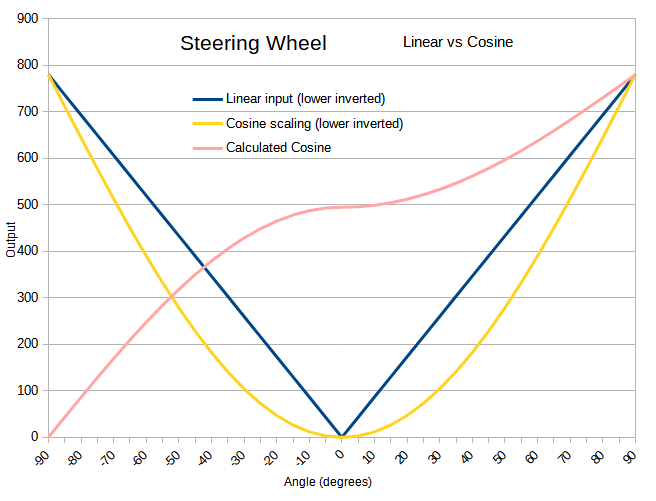
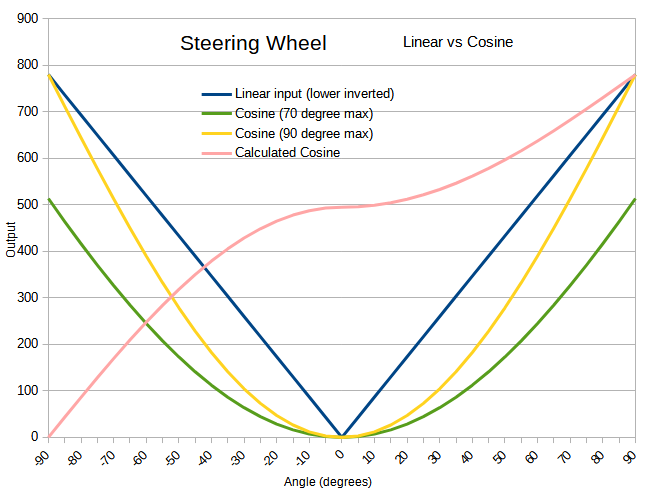
Added adjustable maximum angle for cosine scaling calculations. Range is 45 - 90 degrees.  90 degrees will allow full scale output. Lower angles will provide a wider center section, but the maximum output will be lower.

diff --git a/src/main.cpp b/src/main.cpp
@@ -9,9 +9,9 @@
 #define DEBUG 0
 #define TIMEOUT_HALF_SECONDS 20
 #define ENABLESERIAL 1
-#define ACCELAVG 0
+#define ACCELAVG 1
 #define ACCELSCALING 1
-#define BRAKEAVG 0
+#define BRAKEAVG 1
 #define WHEELAVG 1
 #define COSINE_SCALING 1
 #define TIMESTUDY 0
@@ -75,6 +75,7 @@ CAL           ORG/WHT(J5)
 #define ACCEL_MAX_DEFAULT 758
 #define BRAKE_MIN_DEFAULT 0
 #define BRAKE_MAX_DEFAULT 780
+#define STEERING_SCALE_ANGLE_DEFAULT 70
 
 Joystick_ Joystick(JOYSTICK_DEFAULT_REPORT_ID,JOYSTICK_TYPE_GAMEPAD,
   MAX_NUM_BUTTONS, 4,                  // Button Count, Hat Switch Count
@@ -98,6 +99,7 @@ int accel_min = ACCEL_MIN_DEFAULT;
 int accel_max = ACCEL_MAX_DEFAULT;
 int brake_min = BRAKE_MIN_DEFAULT;
 int brake_max = BRAKE_MAX_DEFAULT;
+int scale_angle = STEERING_SCALE_ANGLE_DEFAULT;
 } wheelcal;
 
 int _dpad_switch[4]={DUP,DRT,DDN,DLT};
@@ -176,7 +178,7 @@ void show_menu()
   Serial.println(F("1. Steering wheel min/max/center"));
   Serial.println(F("2. Accelerator min/max"));
   Serial.println(F("3. Brake min/max"));
-  Serial.println(F("4. Steering wheel deadband setting"));
+  Serial.println(F("4. Steering wheel cosine scaling angle"));
   Serial.println(F("5. Reset all values to defaults"));
   Serial.println(F("0. quit cal mode and save values to EEPROM"));
   Serial.println(F("q. Quit and do not save\n"));
@@ -209,18 +211,18 @@ void steering_cal()
   while(!Serial.available()) delay(500);
 }
 
-void steering_deadband()
+void steering_scale_angle()
 {
-  int deadband_new = 0;
+  int scale_angle_new = 0;
   Serial.setTimeout(10*1000);
-  Serial.println(F("Enter the value for the steering deadband (2-100)"));
-  Serial.print(F("(full range of steering values is 0 to 1023)\nCurrent value: "));
-  Serial.print(wheelcal.steering_db);
-  deadband_new = Serial.readStringUntil('\n').toInt();
-  if(deadband_new>=2 && deadband_new<=100)
-    wheelcal.steering_db = deadband_new;
-  Serial.print(F("\ndeadband = "));
-  Serial.println(wheelcal.steering_db);
+  Serial.println(F("Enter the value for the steering scale angle (45-90)"));
+  Serial.print(F("Current value: "));
+  Serial.print(wheelcal.scale_angle);
+  scale_angle_new = Serial.readStringUntil('\n').toInt();
+  if(scale_angle_new>=45 && scale_angle_new<=90)
+    wheelcal.scale_angle = scale_angle_new;
+  Serial.print(F("\nscale_angle = "));
+  Serial.println(wheelcal.scale_angle);
 }
 
 int cosine_scaling(int input_val)
@@ -229,9 +231,9 @@ int cosine_scaling(int input_val)
   float bottom_range, top_range;
   if(input_val<=wheelcal.steering_center) // we are between min and center
   {
-    // input_angle = 90*input_val/(Center-Min)-90
+    // input_angle = wheelcal.scale_angle*input_val/(Center-Min)-wheelcal.scale_angle
     bottom_range = wheelcal.steering_center-wheelcal.steering_left;
-    input_angle = 90*float(input_val)/bottom_range-90;
+    input_angle = wheelcal.scale_angle*float(input_val)/bottom_range-wheelcal.scale_angle;
     cos_val = cos(input_angle*PI/180)*(bottom_range);
     #if DEBUG
     Serial.print(F(" input_val = "));
@@ -247,11 +249,11 @@ int cosine_scaling(int input_val)
   }
   else // we are between center+1 and max
   {
-    // input_angle = 90*(input_val-Center)/(Max-Center)
+    // input_angle = wheelcal.scale_angle*(input_val-Center)/(Max-Center)
     // Cos_ratio_high = 1-COS(Input_Angle*PI()/180)
     // cos_val = Cos_ratio_high*(Max-Center)+Center
     top_range = wheelcal.steering_right-wheelcal.steering_center;
-    input_angle = float(input_val-wheelcal.steering_center)*90/top_range;
+    input_angle = float(input_val-wheelcal.steering_center)*wheelcal.scale_angle/top_range;
     cos_val = ((1-cos(input_angle*PI/180))*top_range) + wheelcal.steering_center;
     #if DEBUG
     Serial.print(F(" input_val = "));
@@ -350,8 +352,8 @@ void print_cal()
   Serial.println(wheelcal.steering_right);
   Serial.print(F("steering_center = "));
   Serial.println(wheelcal.steering_center);
-  Serial.print(F("steering_deadband = "));
-  Serial.println(wheelcal.steering_db);
+  Serial.print(F("steering_scale_angle = "));
+  Serial.println(wheelcal.scale_angle);
   Serial.print(F("accel_min = "));
   Serial.println(wheelcal.accel_min);
   Serial.print(F("accel_max = "));
@@ -419,7 +421,7 @@ void do_analog_cal()
             brake_cal();
             break;
           case '4':
-            steering_deadband();
+            steering_scale_angle();
             break;
           case '5':
             reset_cal();
